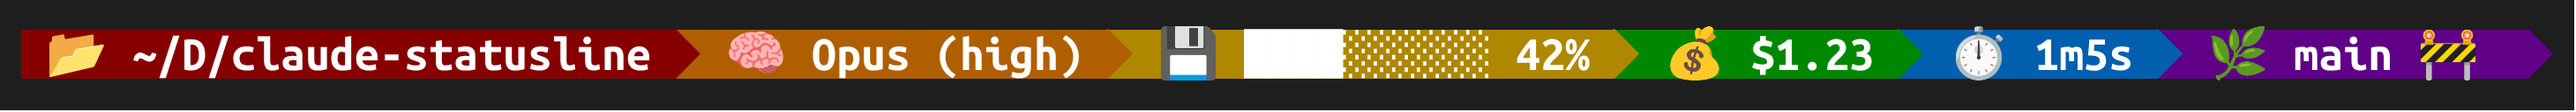
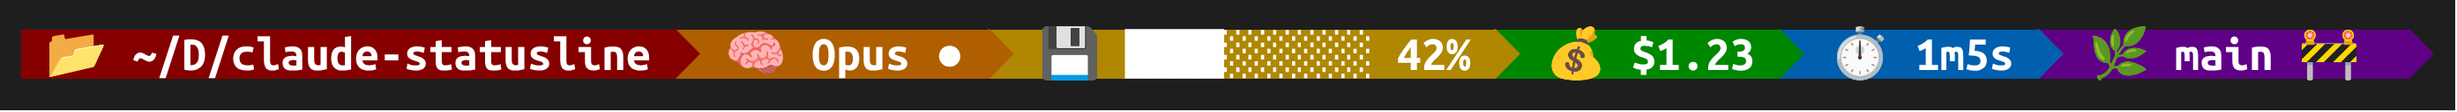
Affiche le niveau d'effort du modèle sous forme de glyphe

Changed region(s): [[0.0, 0.2188, 0.9681, 0.7188], [0.9993, 0.0, 1.0, 1.0], [0.0, 0.625, 0.0312, 0.6875]]

diff --git a/README.md b/README.md
@@ -9,7 +9,7 @@ Elle affiche, sous forme de segments colorés enchaînés :
 | Segment | Contenu |
 |---------|---------|
 | 📂 | Répertoire courant, chemin raccourci (1ʳᵉ lettre des composants intermédiaires) |
-| 🧠 | Modèle actif (effort) |
+| 🧠 | Modèle actif (+ glyphe de niveau d'effort : `○` low, `◐` medium, `●` high, `◉` xhigh, `◈` max, `✦` ultracode) |
 | 💾 | Utilisation du contexte (barre `████░░░░░░` + pourcentage) |
 | 💰 | Coût total de la session (USD) |
 | ⏱ | Durée totale de la session |
